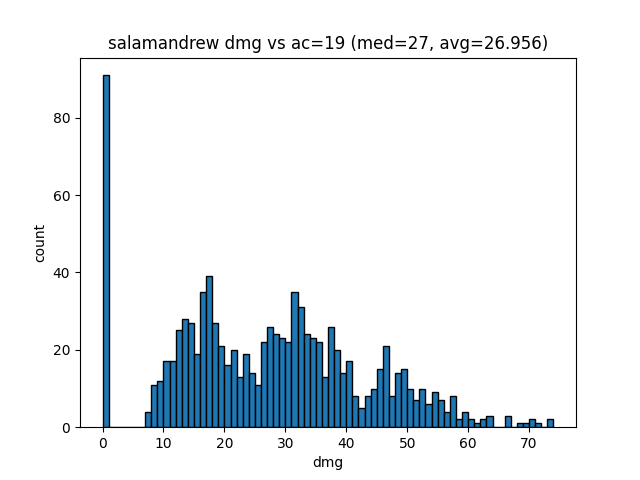
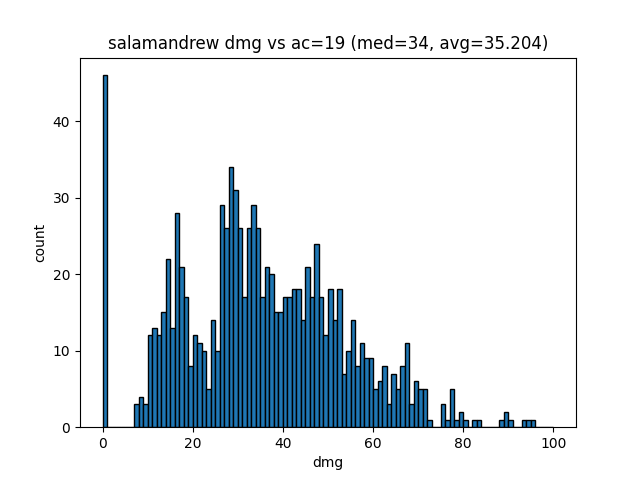
update

diff --git a/players/salamandrew.py b/players/salamandrew.py
@@ -44,7 +44,7 @@ def salamandrew_attack(num_eb, hit_dc, enemy_ac, verbose=True, hex=False):
 
 def run_simulations():
     enemy_acs = range(15, 22)
-    num_eb = 2
+    num_eb = 3
     hit_dc = 9
     trials = 1000
     verbose = False
